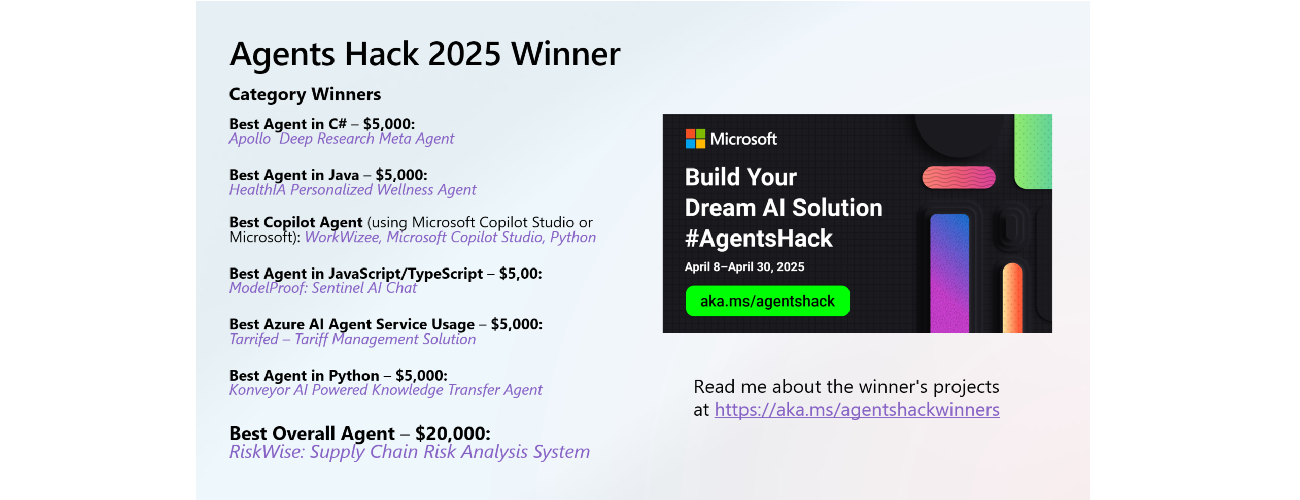
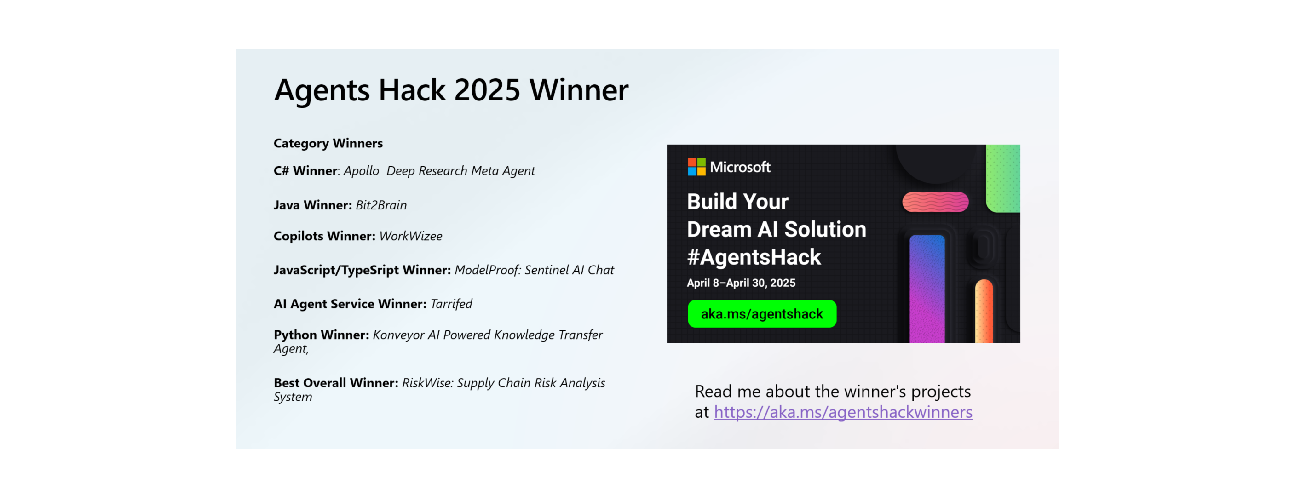
UPDATE

diff --git a/docs/winners.md b/docs/winners.md
@@ -44,22 +44,27 @@ Using **Azure AI Agent Service** and Azure OpenAI (GPT-4), Apollo can answer, fo
 **Technologies:** C# (.NET 7/ASP.NET Core), Semantic Kernel, Azure AI Agents Service (with GPT-4), React (frontend), PostgreSQL (vector DB)  
 [Learn more: Apollo – Deep Research Meta Agent (#681)](https://github.com/microsoft/AI_Agents_Hackathon/issues/681)
 
-## 🥇 Best Java Agent – HealthIA: Personalized Wellness Agent
+# 🥇 Best Java Agent – Bit2Brain: Personalized Wellness Agent
 
-**HealthIA** is a **personal wellness coach agent** that stood out as the top Java-based project. *What if your fitness app had an intelligent coach that knows **you** inside out?* HealthIA delivers exactly that. It combines **generative AI with IoT wearable data** to provide real-time, personalized health guidance.
+Bits2Brain is an AI-powered system designed to capture and connect fragmented information, turning everyday learning moments into an evolving **Knowledge Star Map**. Whether it's a tip from a video, a breakthrough in tech news, or an insightful article, the platform enables users to store, structure, and visualize their knowledge in an interactive way.
 
-![HealthIA](./media/winners/HEALTHIA.jpg)
+![Bits2Brain](./media/winners/BITS2BRAIN.png)
 
-- **Personalized plans:** HealthIA generates custom meal plans, workout routines, and healthy habit reminders tailored to the user's health data and preferences. It connects to smartwatches, fitness bands, and health sensors to continuously adjust recommendations based on heart rate, sleep quality, step count, etc., ensuring advice stays relevant to the user's current state.
-- **Multilingual & culturally aware:** The agent can chat in English or Spanish and adapts recommendations to the user's cultural context (for example, suggesting diet options that match local cuisine).
-- **Addresses real problems:** HealthIA targets the epidemic of chronic conditions (like obesity, diabetes, hypertension) by keeping users engaged in consistent healthy habits. It also tackles the low adherence problem of fitness apps – using AI to keep the experience highly personalized and motivating so users don't drop off after a few weeks.
-- **Technical innovation:** HealthIA's backend is built in **Java**, using the **LangGraph** framework to orchestrate a multi-agent flow (for planning, visual analysis, and Q&A reasoning). It leverages **Azure services** like Azure OpenAI GPT-4 for conversational coaching, Azure Computer Vision for analyzing meal photos (e.g., detecting what's on your plate from a snapshot), and Azure Cosmos DB for storing user data and embeddings. A custom "Supervisor" agent architecture routes user requests – text queries or images – to specialized agents (e.g., a nutrition agent or workout agent) for processing.
-- **Gamification:** To boost engagement, HealthIA includes light gamification such as streaks and badges, celebrating users' progress and encouraging consistency.
+## Core Features
+1. **Knowledge Star Map Generation** – Users can upload snippets of knowledge (links, videos, screenshots), with AI automatically identifying connections between related nodes.  
+2. **Node Expansion & Cognitive Completion** – AI suggests relevant topics and additional knowledge nodes based on context, allowing users to explore and grow their understanding.  
+3. **Knowledge Fusion & Summarization** – Related nodes can be merged into a refined summary, compressing information while maintaining key connections and resources.  
+4. **Multimodal Input Support** – Supports various formats, including text, images, and videos, with AI-powered analysis tools (OCR, video indexing) to extract meaningful data.  
+5. **Conversational AI with Agent System** – Users interact with an AI Agent to ask questions, receive video recommendations, and navigate their personalized knowledge graph.
 
-By integrating wearables, AI, and cloud, HealthIA delivers a **holistic wellness companion** that feels both proactive and personalized. It's an excellent example of using Java for an AI agent – taking advantage of Java's robust ecosystem (Spring Boot for APIs, etc.) and combining it with cutting-edge AI and cloud components.
+## Who is it for?
+Students, researchers, content creators, and professionals looking to organize scattered knowledge, track inspiration, and build mental models for learning.
 
-**Technologies:** Java (Spring Boot), LangGraph (for agent orchestration), Azure OpenAI (GPT-4), Azure Cognitive Services (Vision), Azure Cosmos DB, **IoT wearable integration**.  
-[Learn more: HealthIA – Wellness Agent (#702)](https://github.com/microsoft/AI_Agents_Hackathon/issues/702)
+Ultimately, Bits2Brain aims to combat information overload by turning passive learning into structured, dynamic, and interactive knowledge growth powered by AI.
+
+**Technologies** Langchain4j, Azure Video Indexer, Azure Computer Vision, Neo4j, Java, JavaScript.
+
+[Learn more: Bits2Brain (#638)](https://github.com/microsoft/AI_Agents_Hackathon/issues/638)
 
 ## 🥇 Best Copilot Agent – WorkWizee
 
